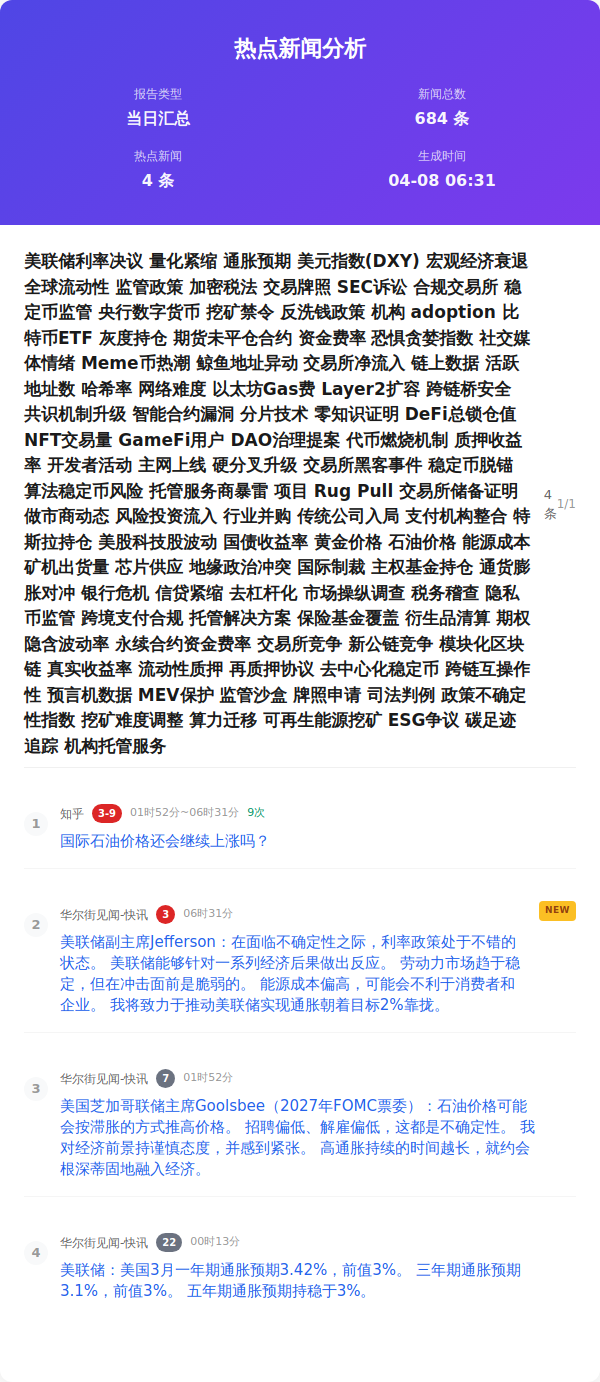
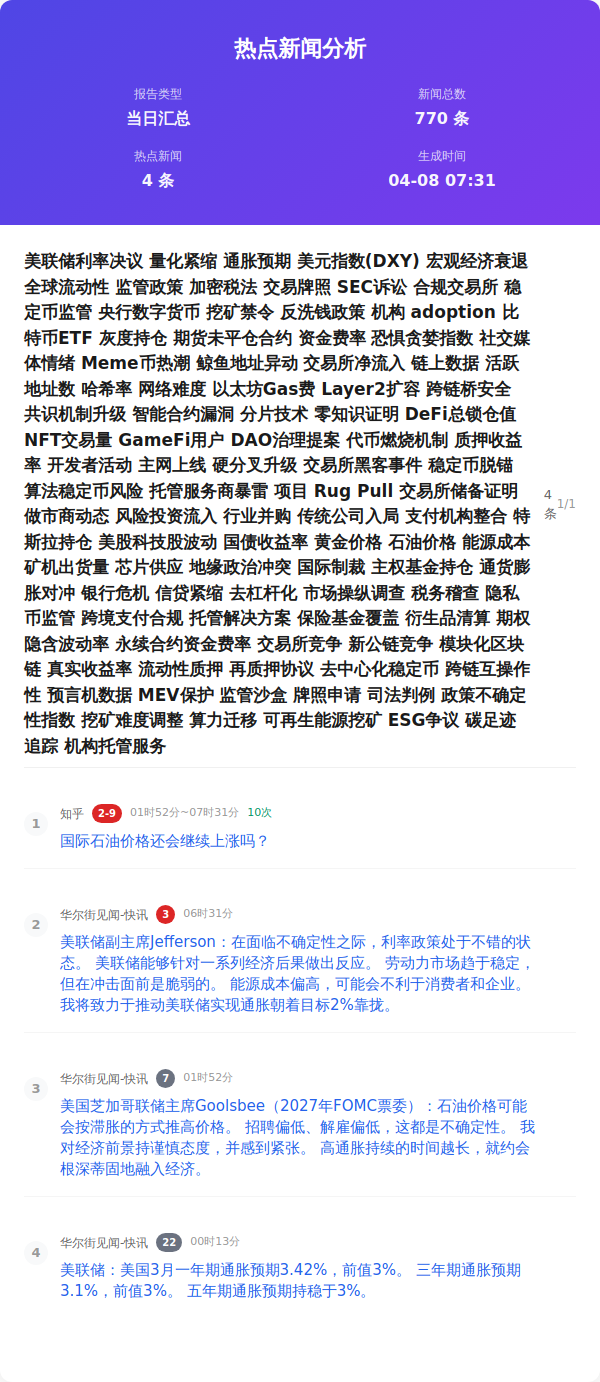
Auto update by GitHub Actions at Wed Apr  8 07:31:26 CST 2026

diff --git a/index.html b/index.html
@@ -357,7 +357,7 @@
                     </div>
                     <div class="info-item">
                         <span class="info-label">新闻总数</span>
-                        <span class="info-value">684 条</span>
+                        <span class="info-value">770 条</span>
                     </div>
                     <div class="info-item">
                         <span class="info-label">热点新闻</span>
@@ -365,7 +365,7 @@
                     </div>
                     <div class="info-item">
                         <span class="info-label">生成时间</span>
-                        <span class="info-value">04-08 06:31</span>
+                        <span class="info-value">04-08 07:31</span>
                     </div>
                 </div>
             </div>
@@ -383,13 +383,13 @@
                         <div class="news-number">1</div>
                         <div class="news-content">
                             <div class="news-header">
-                                <span class="source-name">知乎</span><span class="rank-num top">3-9</span><span class="time-info">01时52分~06时31分</span><span class="count-info">9次</span>
+                                <span class="source-name">知乎</span><span class="rank-num top">2-9</span><span class="time-info">01时52分~07时31分</span><span class="count-info">10次</span>
                             </div>
                             <div class="news-title"><a href="https://www.zhihu.com/question/2017599039630247665" target="_blank" class="news-link">国际石油价格还会继续上涨吗？</a>
                             </div>
                         </div>
                     </div>
-                    <div class="news-item new">
+                    <div class="news-item ">
                         <div class="news-number">2</div>
                         <div class="news-content">
                             <div class="news-header">

diff --git a/output/2026年04月08日/html/当日汇总.html b/output/2026年04月08日/html/当日汇总.html
@@ -357,7 +357,7 @@
                     </div>
                     <div class="info-item">
                         <span class="info-label">新闻总数</span>
-                        <span class="info-value">684 条</span>
+                        <span class="info-value">770 条</span>
                     </div>
                     <div class="info-item">
                         <span class="info-label">热点新闻</span>
@@ -365,7 +365,7 @@
                     </div>
                     <div class="info-item">
                         <span class="info-label">生成时间</span>
-                        <span class="info-value">04-08 06:31</span>
+                        <span class="info-value">04-08 07:31</span>
                     </div>
                 </div>
             </div>
@@ -383,13 +383,13 @@
                         <div class="news-number">1</div>
                         <div class="news-content">
                             <div class="news-header">
-                                <span class="source-name">知乎</span><span class="rank-num top">3-9</span><span class="time-info">01时52分~06时31分</span><span class="count-info">9次</span>
+                                <span class="source-name">知乎</span><span class="rank-num top">2-9</span><span class="time-info">01时52分~07时31分</span><span class="count-info">10次</span>
                             </div>
                             <div class="news-title"><a href="https://www.zhihu.com/question/2017599039630247665" target="_blank" class="news-link">国际石油价格还会继续上涨吗？</a>
                             </div>
                         </div>
                     </div>
-                    <div class="news-item new">
+                    <div class="news-item ">
                         <div class="news-number">2</div>
                         <div class="news-content">
                             <div class="news-header">